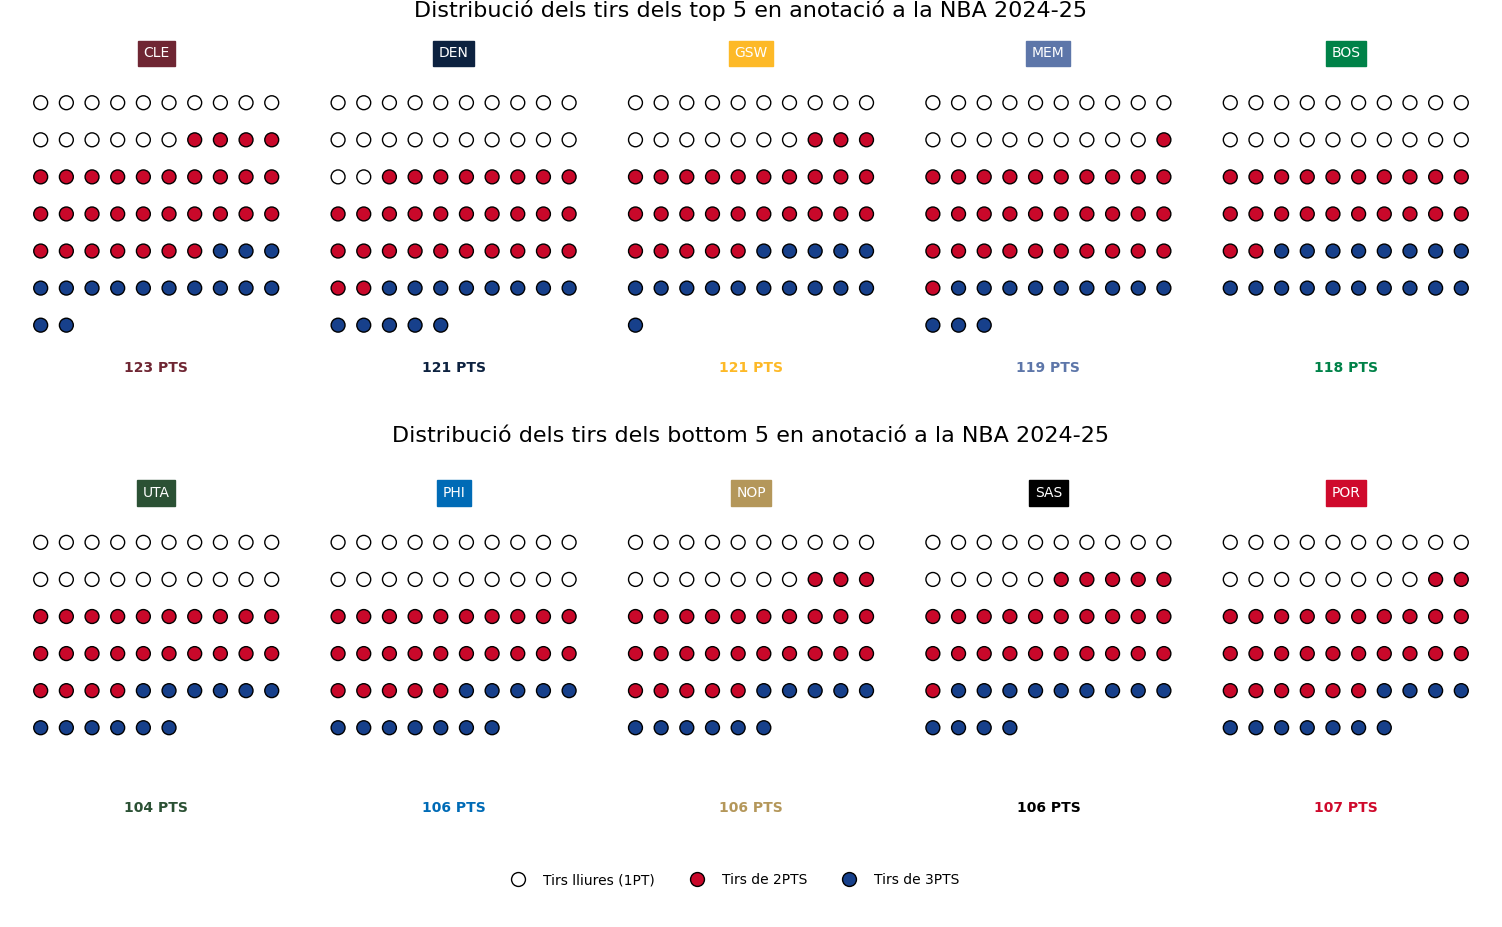
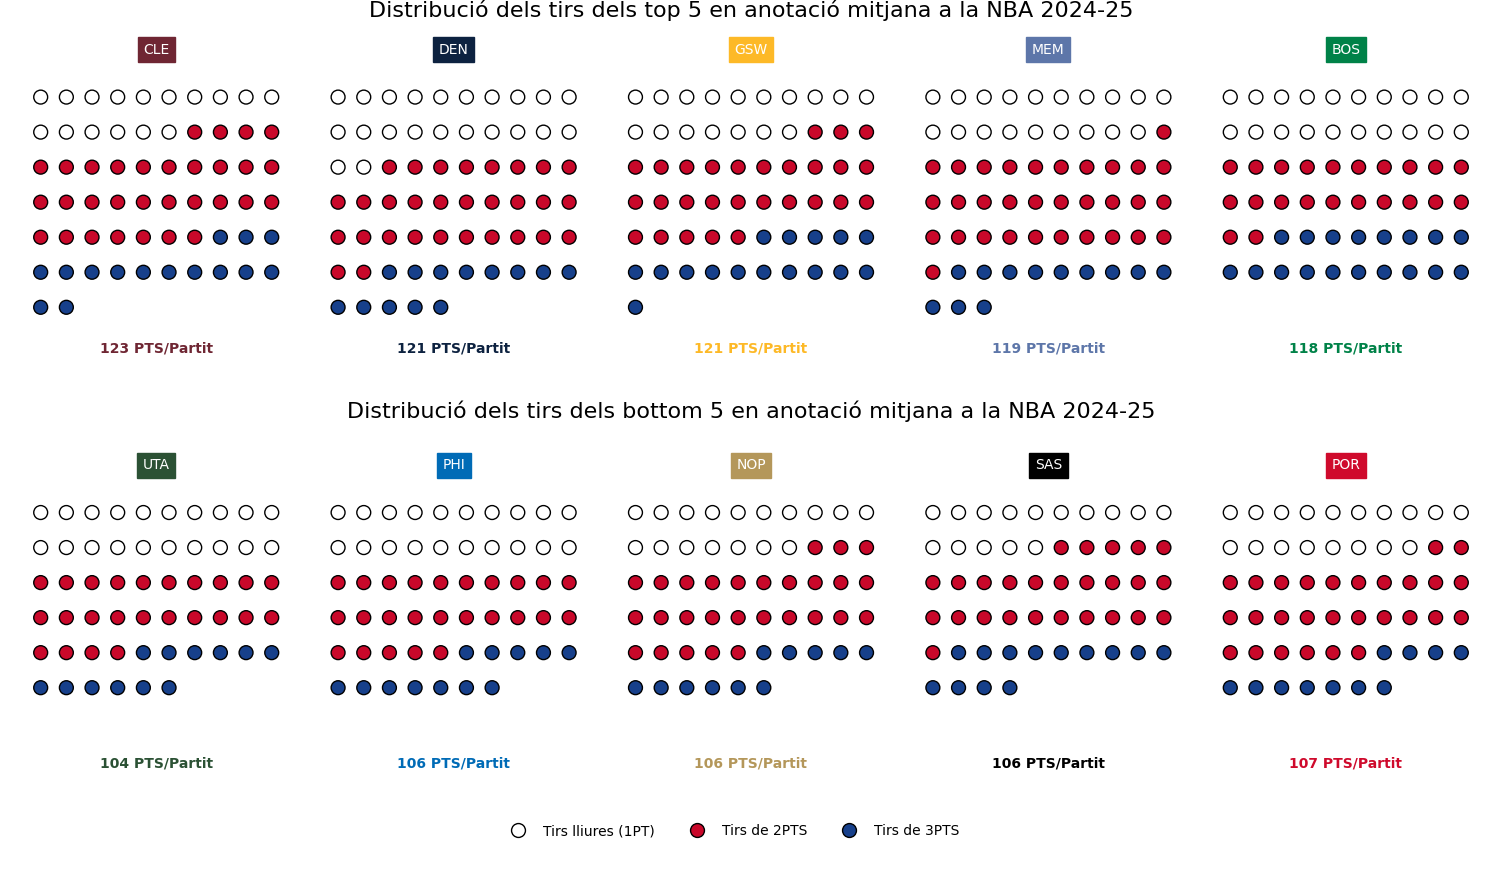
Adjustments

diff --git a/nba_points.py b/nba_points.py
@@ -61,7 +61,7 @@ for i, (team, counts) in enumerate(zip(df["TEAM_ABBREVIATION"], data)):
     ax.set_xlim(-0.5, row_length * spacing_x)  # límit de l'eix x
     ax.set_ylim(-10 * spacing_y, spacing_y)   # límit de l'eix y, ajustat per al nombre de files
 
-    ax.text(x=2.25, y=-2.15, s=f"{df[df.TEAM_ABBREVIATION == team]['PTS'].values[0]} PTS", horizontalalignment='center',
+    ax.text(x=2.25, y=-2.15, s=f"{df[df.TEAM_ABBREVIATION == team]['PTS'].values[0]} PTS/Partit", horizontalalignment='center',
      verticalalignment='center', fontweight="bold", color=team_colors[team_colors.team_abbreviation == team]["team_color"].values[0])
     
     # Ocultem els eixos
@@ -70,8 +70,8 @@ for i, (team, counts) in enumerate(zip(df["TEAM_ABBREVIATION"], data)):
 # fig.text(0.5, 1.1, "Millors equips NBA", horizontalalignment='center',
     #  verticalalignment='center')
 
-fig.suptitle("Distribució dels tirs dels top 5 en anotació a la NBA 2024-25", y=1.0001, fontsize=16)
-fig.text(0.5, 0.53, "Distribució dels tirs dels bottom 5 en anotació a la NBA 2024-25", horizontalalignment='center',
+fig.suptitle("Distribució dels tirs dels top 5 en anotació mitjana a la NBA 2024-25", y=1.0001, fontsize=16)
+fig.text(0.5, 0.53, "Distribució dels tirs dels bottom 5 en anotació mitjana a la NBA 2024-25", horizontalalignment='center',
      verticalalignment='center', fontsize=16)
 
 
